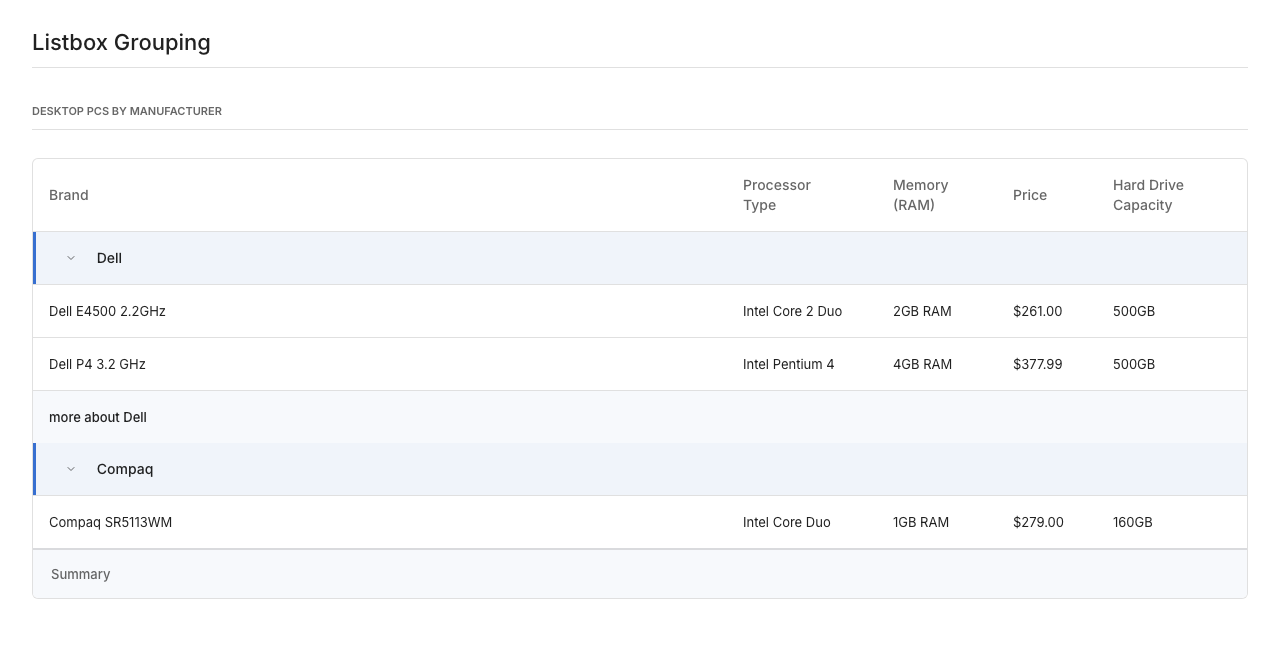
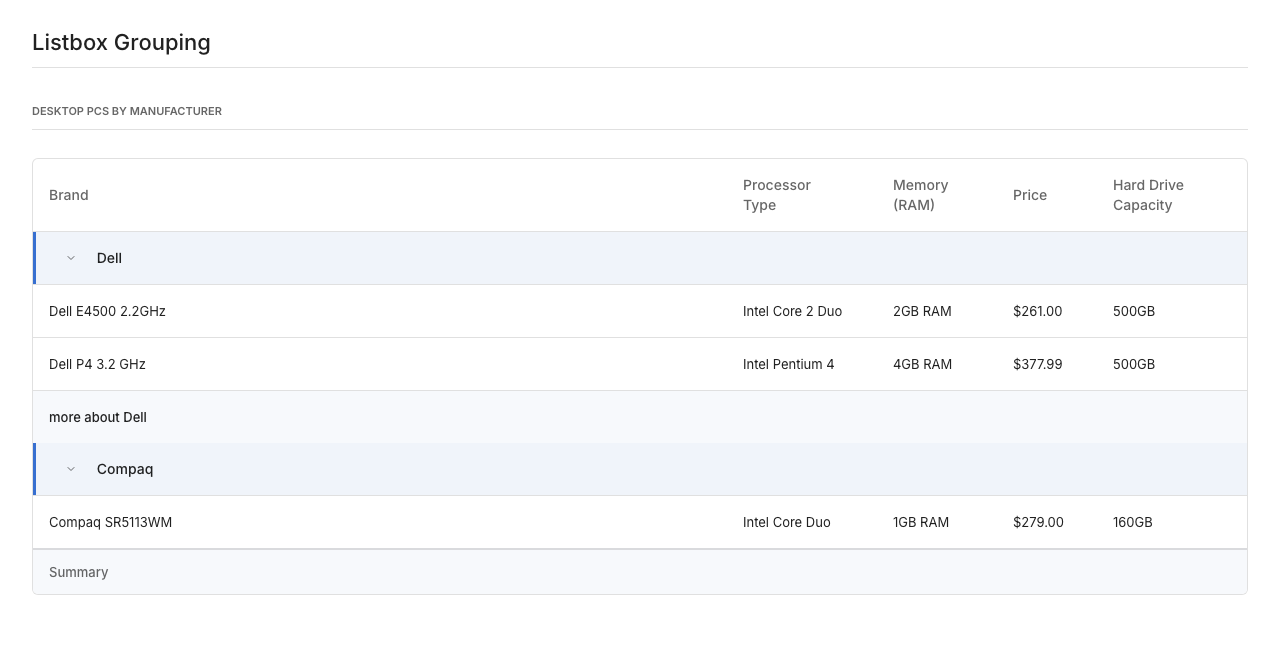
ZK-6112: reset the grid and listbox footer table border-spacing so footer columns line up with the body (zkdemo D12)

diff --git a/zul/src/main/resources/web/js/zul/sel/css/listbox.css b/zul/src/main/resources/web/js/zul/sel/css/listbox.css
@@ -387,6 +387,11 @@
     border-top: 2px solid var(--zk-color-outline-variant);
 }
 
+/* The UA default `border-spacing: 2px` would push every footer column right of its body column. */
+.z-listbox-footer table {
+    border-spacing: 0;
+}
+
 .z-listfoot .z-listfooter,
 .z-listfoot td {
     padding: var(--zk-spacing-3) var(--zk-spacing-4);

diff --git a/zul/src/main/resources/web/js/zul/grid/css/grid.css b/zul/src/main/resources/web/js/zul/grid/css/grid.css
@@ -454,6 +454,11 @@
     border-top: 1px solid var(--zk-color-outline-variant);
 }
 
+/* The UA default `border-spacing: 2px` would push every footer column right of its body column. */
+.z-grid-footer table {
+    border-spacing: 0;
+}
+
 .z-grid-footer .z-cell,
 .z-footer .z-cell,
 .z-grid-footer .z-row-content,
